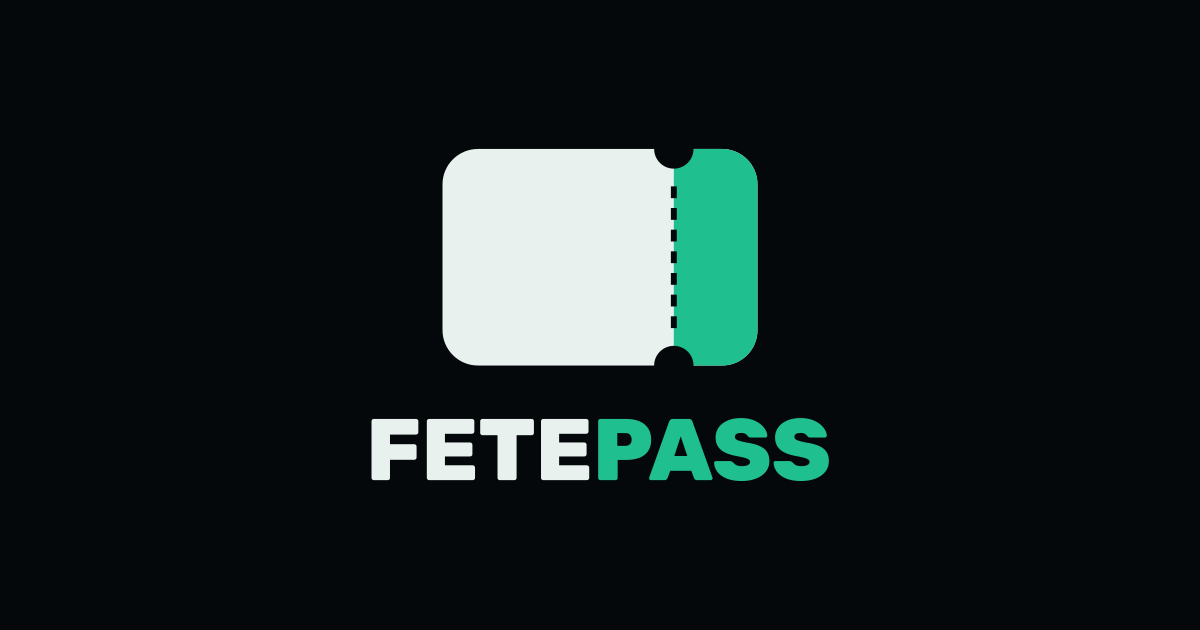
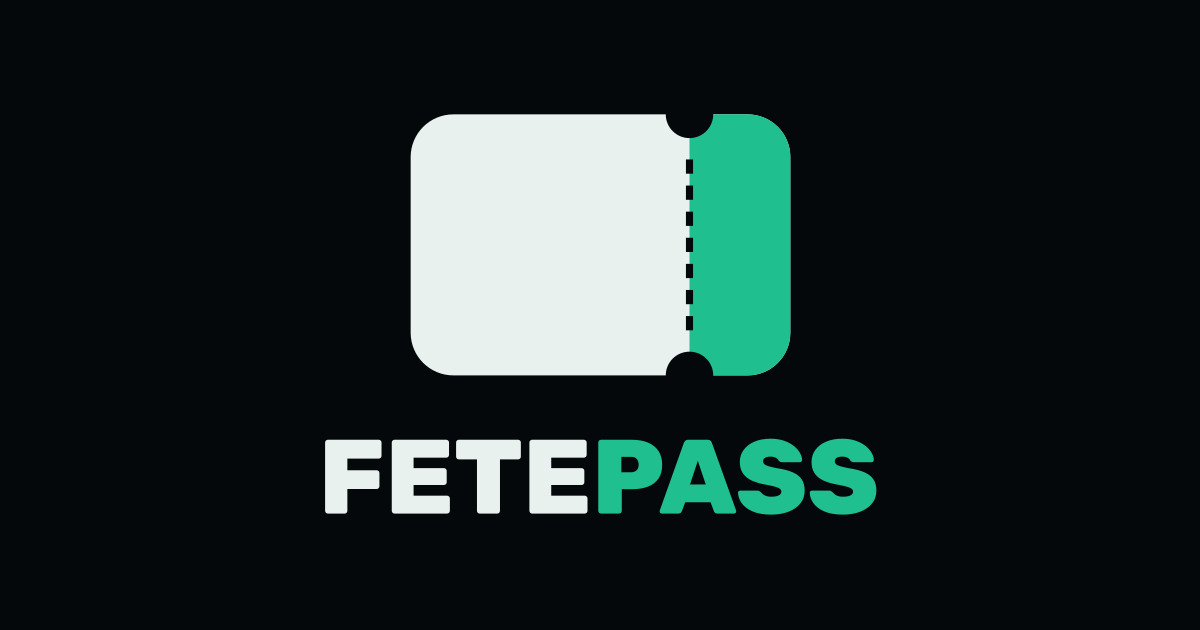
brand: FetePass link-preview text and a larger OG lockup
The card carried the FetePass lockup above og:title "Route 86 · Asian ·
Caribbean Fusion", which is the worst of both. og:title, og:description
and the manifest description are now FetePass's. The page's own <title>
and meta description stay the site's, and BRAND and the UI remain
untouched.

The lockup on the card goes 560 -> 675. The lockup's art fills 59% of
its own square, so one scaled to fit inside 630 left the mark small and
adrift; 675 lands the art at 400px, 64% of the card's height. Picked by
rendering 560 / 675 / 767 and looking -- 767 puts the wordmark against
the bottom edge.

675 is taller than the card, so the overflow is cropped rather than
scaled away, which is only safe because the lockup's ground is the same
flat ink as the card's. The script now asserts og.png is 1200x630 and
that no art reaches within 8px of an edge, since an overshoot would
otherwise ship as a wordmark with its descenders sliced off in every
preview. Controlled at LOCKUP_H 1100.

Claude-Session: https://claude.ai/code/session_012eFAmwCvfuxHijoQEWDkSR

Changed region(s): [[0.3392, 0.181, 0.6783, 0.6032], [0.2467, 0.6635, 0.74, 0.8143]]

diff --git a/src/app/layout.tsx b/src/app/layout.tsx
@@ -23,13 +23,18 @@ export const metadata: Metadata = {
     ],
     apple: "/icons/icon-180.png",
   },
+  // The link preview carries the FetePass lockup, so its title and description are
+  // FetePass's rather than BRAND's -- an image saying one thing above text saying another
+  // is the worst of both. The page's own <title> and description below stay the site's.
   openGraph: {
-    title: `${BRAND.name} · ${BRAND.tagline}`,
-    description: `Order online. ${BRAND.taglineLong}. George Hill, Anguilla.`,
+    title: "FetePass",
+    description: "One pass for every fete",
     images: [{ url: "/brand/og.png", width: 1200, height: 630 }],
   },
   twitter: {
     card: "summary_large_image",
+    title: "FetePass",
+    description: "One pass for every fete",
     images: ["/brand/og.png"],
   },
 };
